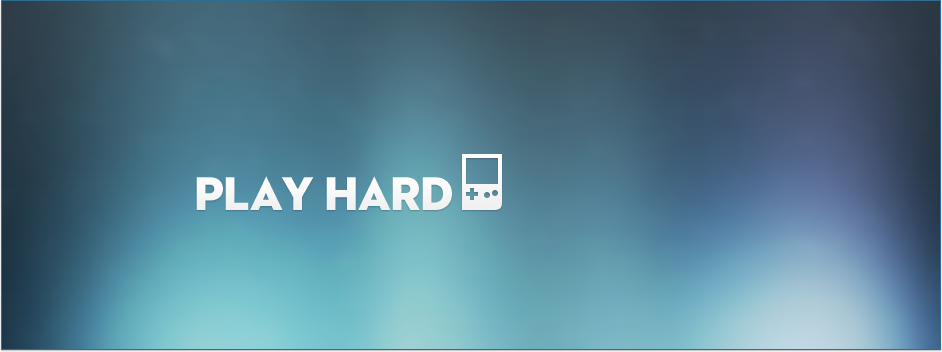
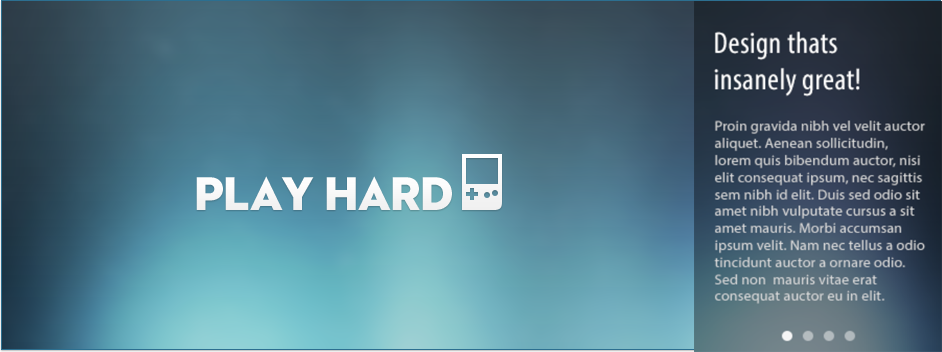
Очень по быстрому переделана логика работы слайдера.

Changed region(s): [[0.7389, 0.0, 1.0, 1.0]]

diff --git a/index.html b/index.html
@@ -113,20 +113,39 @@
             <section class="slider">
                 <div class="container">
                     <div class="slider__block">
-                        <div class="slider__block-right carousel slide" id="carousel-example-generic" data-ride="carousel">
+                        <div class="carousel slide" id="carousel-example-generic" data-ride="carousel">
                               <!-- Indicators -->
                               <ol class="carousel-indicators">
                                 <li data-target="#carousel-example-generic" data-slide-to="0" class="active"></li>
                                 <li data-target="#carousel-example-generic" data-slide-to="1"></li>
-                                <li data-target="#carousel-example-generic" data-slide-to="2"></li>
-                                <li data-target="#carousel-example-generic" data-slide-to="3"></li>
+<!--                                <li data-target="#carousel-example-generic" data-slide-to="2"></li>
+                                <li data-target="#carousel-example-generic" data-slide-to="3"></li>-->
                               </ol>
 
+
+
+
                               <!-- Wrapper for slides -->
-                              <div class="carousel-inner">
+
+                            <div class="carousel-inner" role="listbox">
                                 <div class="item active">
-                                    <h2>Design thats insanely great!</h2>
-                                    <p>Proin gravida nibh vel velit auctor aliquet. Aenean sollicitudin, lorem quis bibendum auctor, nisi elit consequat ipsum, nec sagittis sem nibh id elit. Duis sed odio sit amet nibh vulputate cursus a sit amet mauris. Morbi accumsan ipsum velit. Nam nec tellus a odio tincidunt auctor a ornare odio. Sed non  mauris vitae erat consequat auctor eu in elit.</p>
+                                  <img src="img/slider/slider-bg.png" alt="...">
+
+                                </div>
+                                <div class="item">
+                                  <img src="img/slider/slider-bg.png" alt="...">
+                                  
+                                </div>
+
+                            </div>
+
+
+
+
+
+      <!--                        <div class="carousel-inner">
+                                <div class="item active">
+
                                 </div>
                                 <div class="item">
                                     <h2>Заголовок 2</h2>
@@ -140,7 +159,7 @@
                                     <h2>Заголовок 4</h2>
                                     <p>Вообще, что-то сложно придумать! odio. Sed non  mauris vitae erat consequat auctor eu in elit.</p>
                                 </div>
-                              </div>
+                              </div>-->
                         </div>
                     </div>
                 </div>

diff --git a/css/main.less b/css/main.less
@@ -262,7 +262,7 @@ body{
     width: 940px;
     height: 350px;
     margin: 0 auto;
-    background: url("../img/slider/slider-bg.png") #4b7486;
+//    background: url("../img/slider/slider-bg.png") #4b7486;
     color: #ffffff;
 }
 .slider__block-right {
@@ -275,7 +275,9 @@ body{
     filter: alpha(Opacity=39);  /*Прозрачность в IE */
     color: #ffffff;             /* Цвет текста */
     /* ------------------- */
-    margin: 0;
+    margin-top: -18px;
+    margin-right: 455px;
+
     padding: 0;
 }
 .item h2 {
